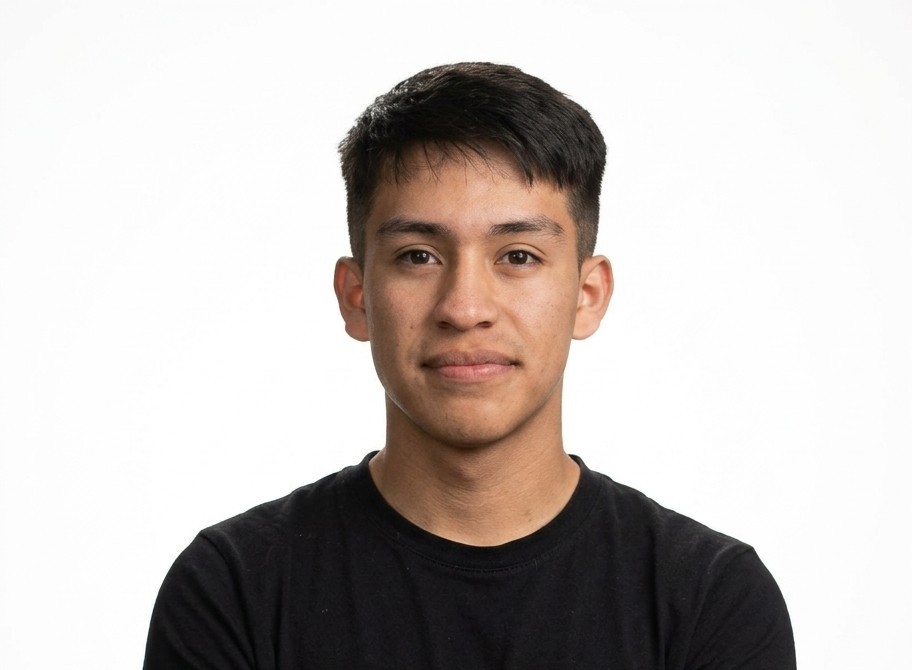
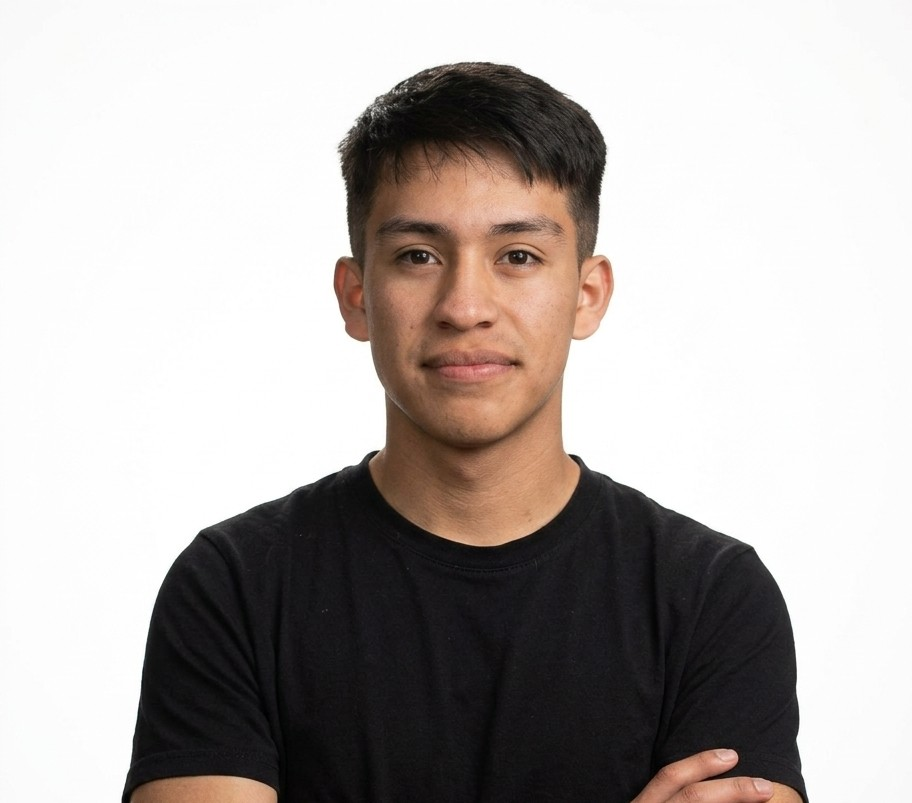
Lower the hero photo crop line, previous one cut too high

Changed region(s): [[0.1228, 0.0597, 0.8904, 1.0]]

diff --git a/src/components/Hero.tsx b/src/components/Hero.tsx
@@ -39,8 +39,8 @@ export function Hero() {
               src="/photo.jpg"
               alt="David Payán"
               width={912}
-              height={670}
-              className="w-full aspect-[912/670] object-cover brightness-95"
+              height={803}
+              className="w-full aspect-[912/803] object-cover brightness-95"
             />
             <div
               className="pointer-events-none absolute inset-0 bg-[radial-gradient(ellipse_at_center,transparent_75%,theme(colors.background)_135%)]"
